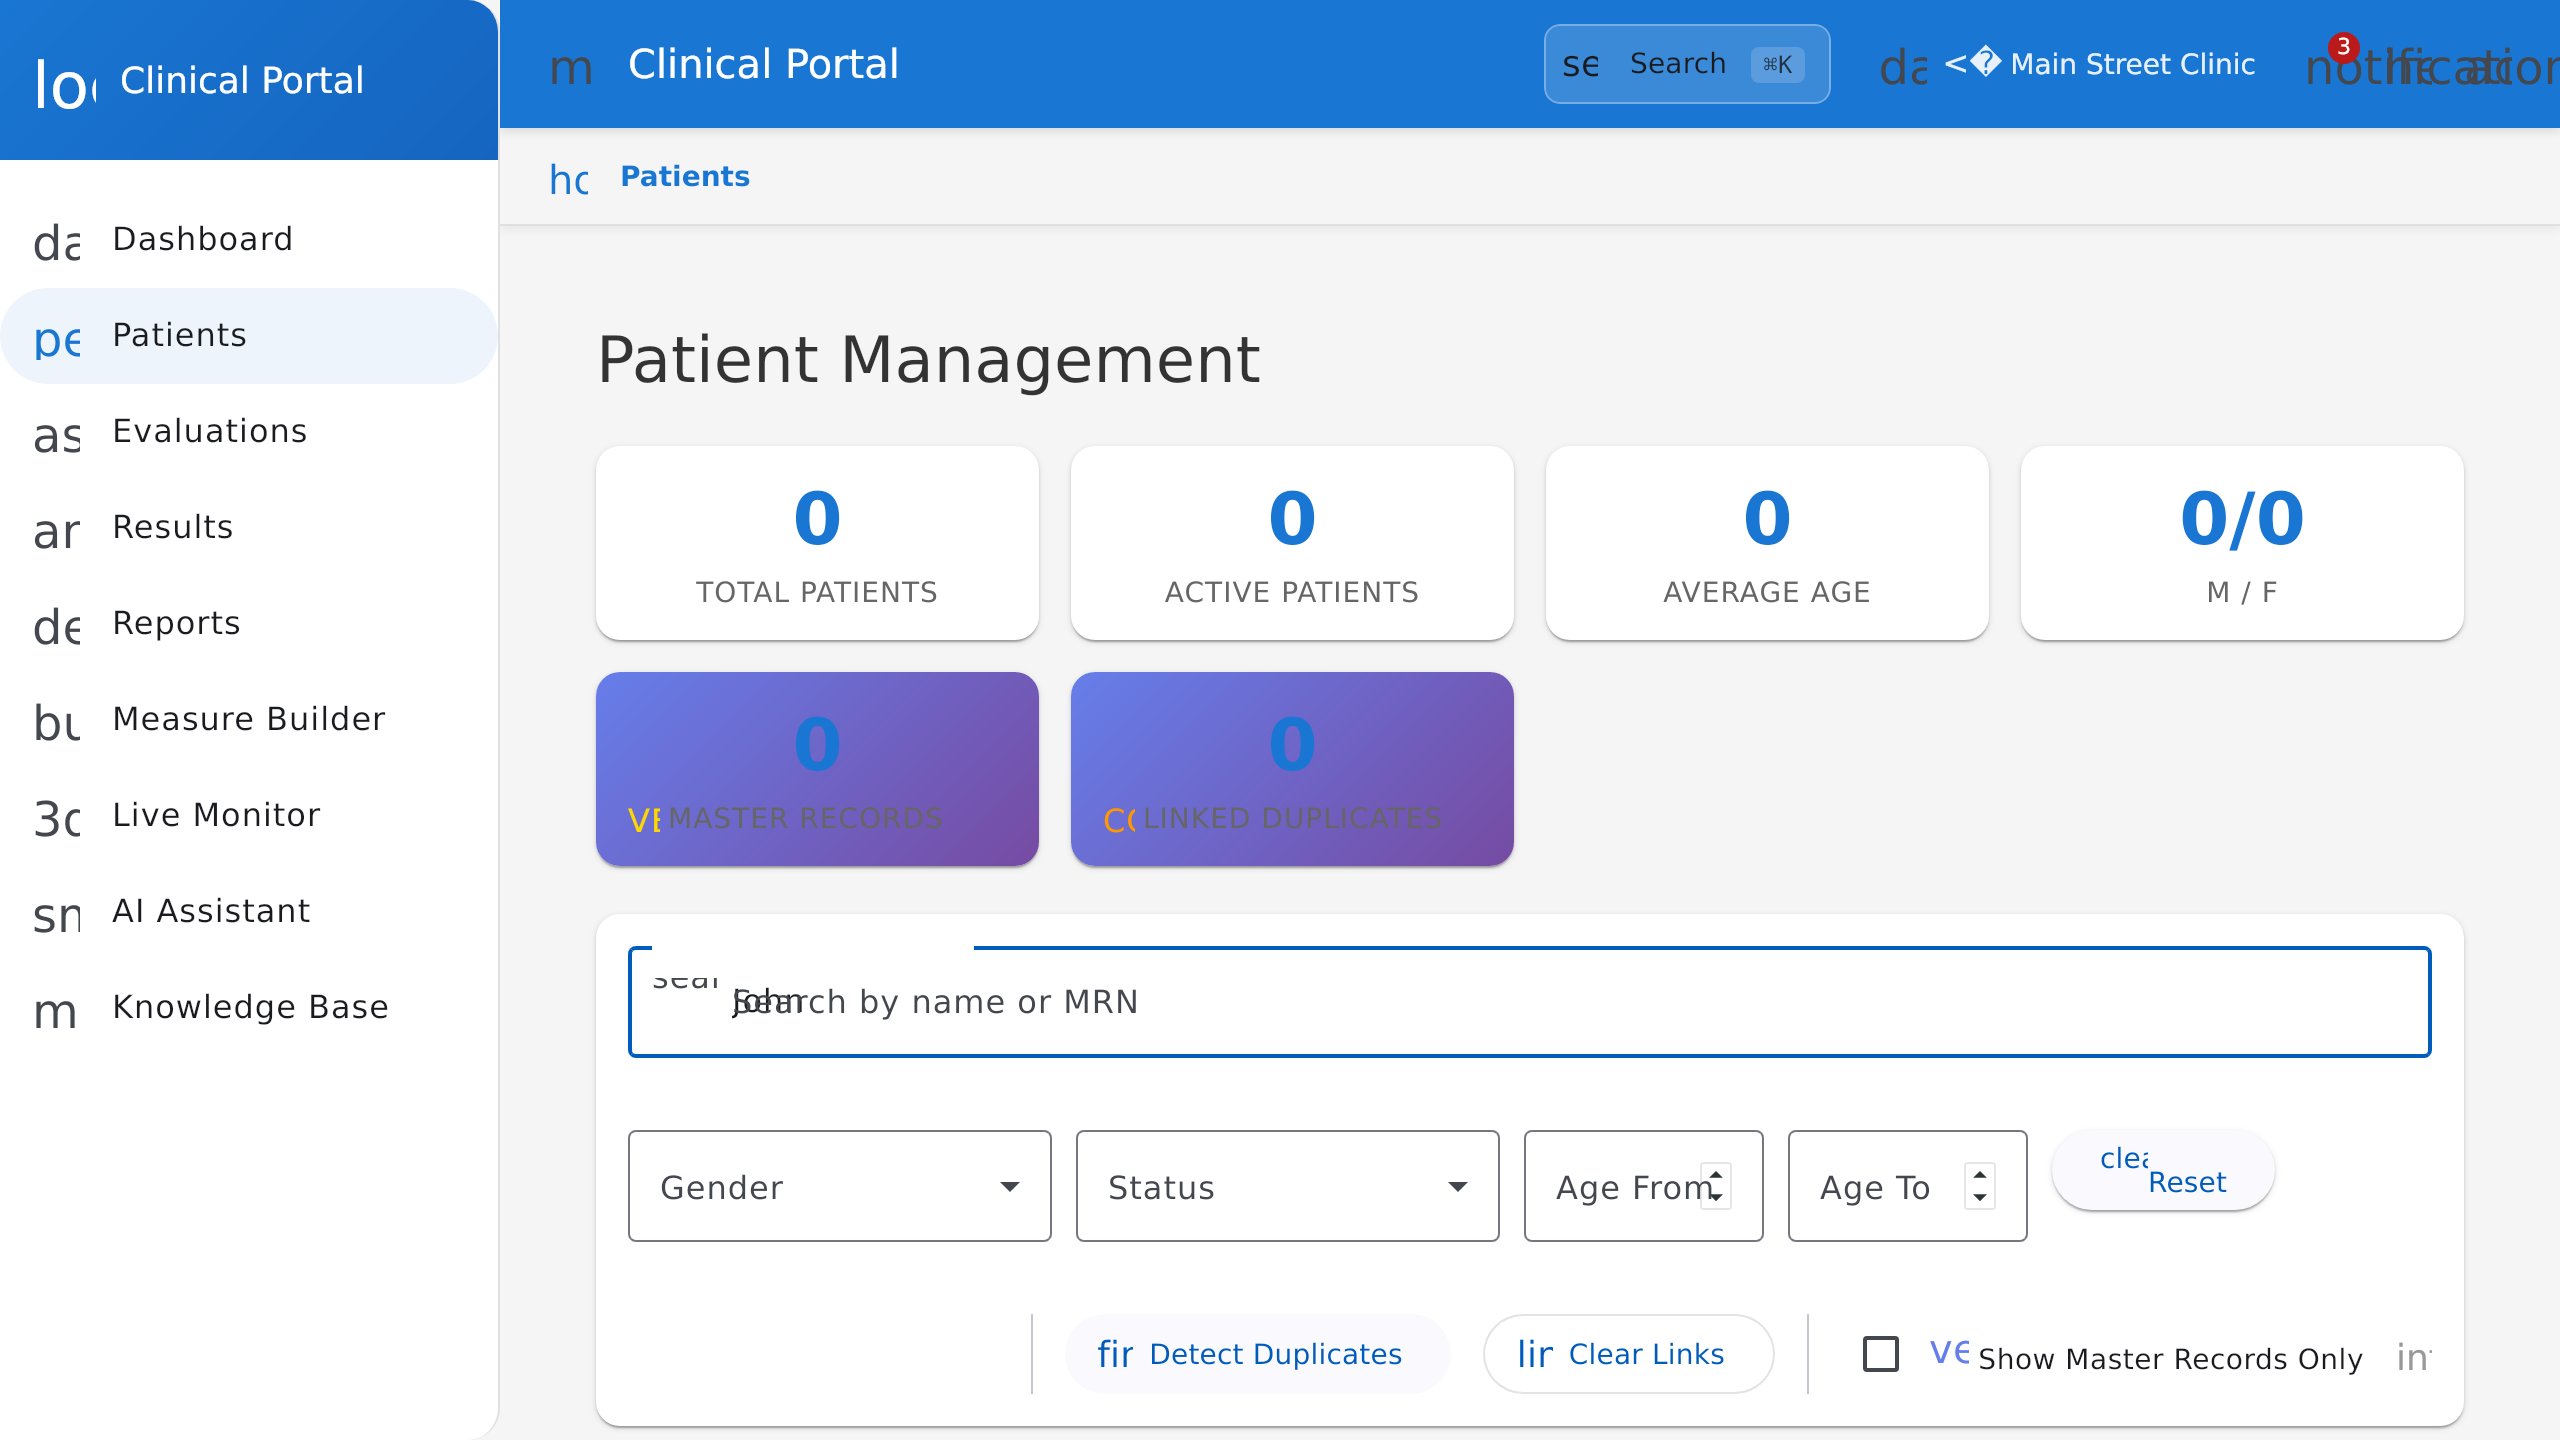
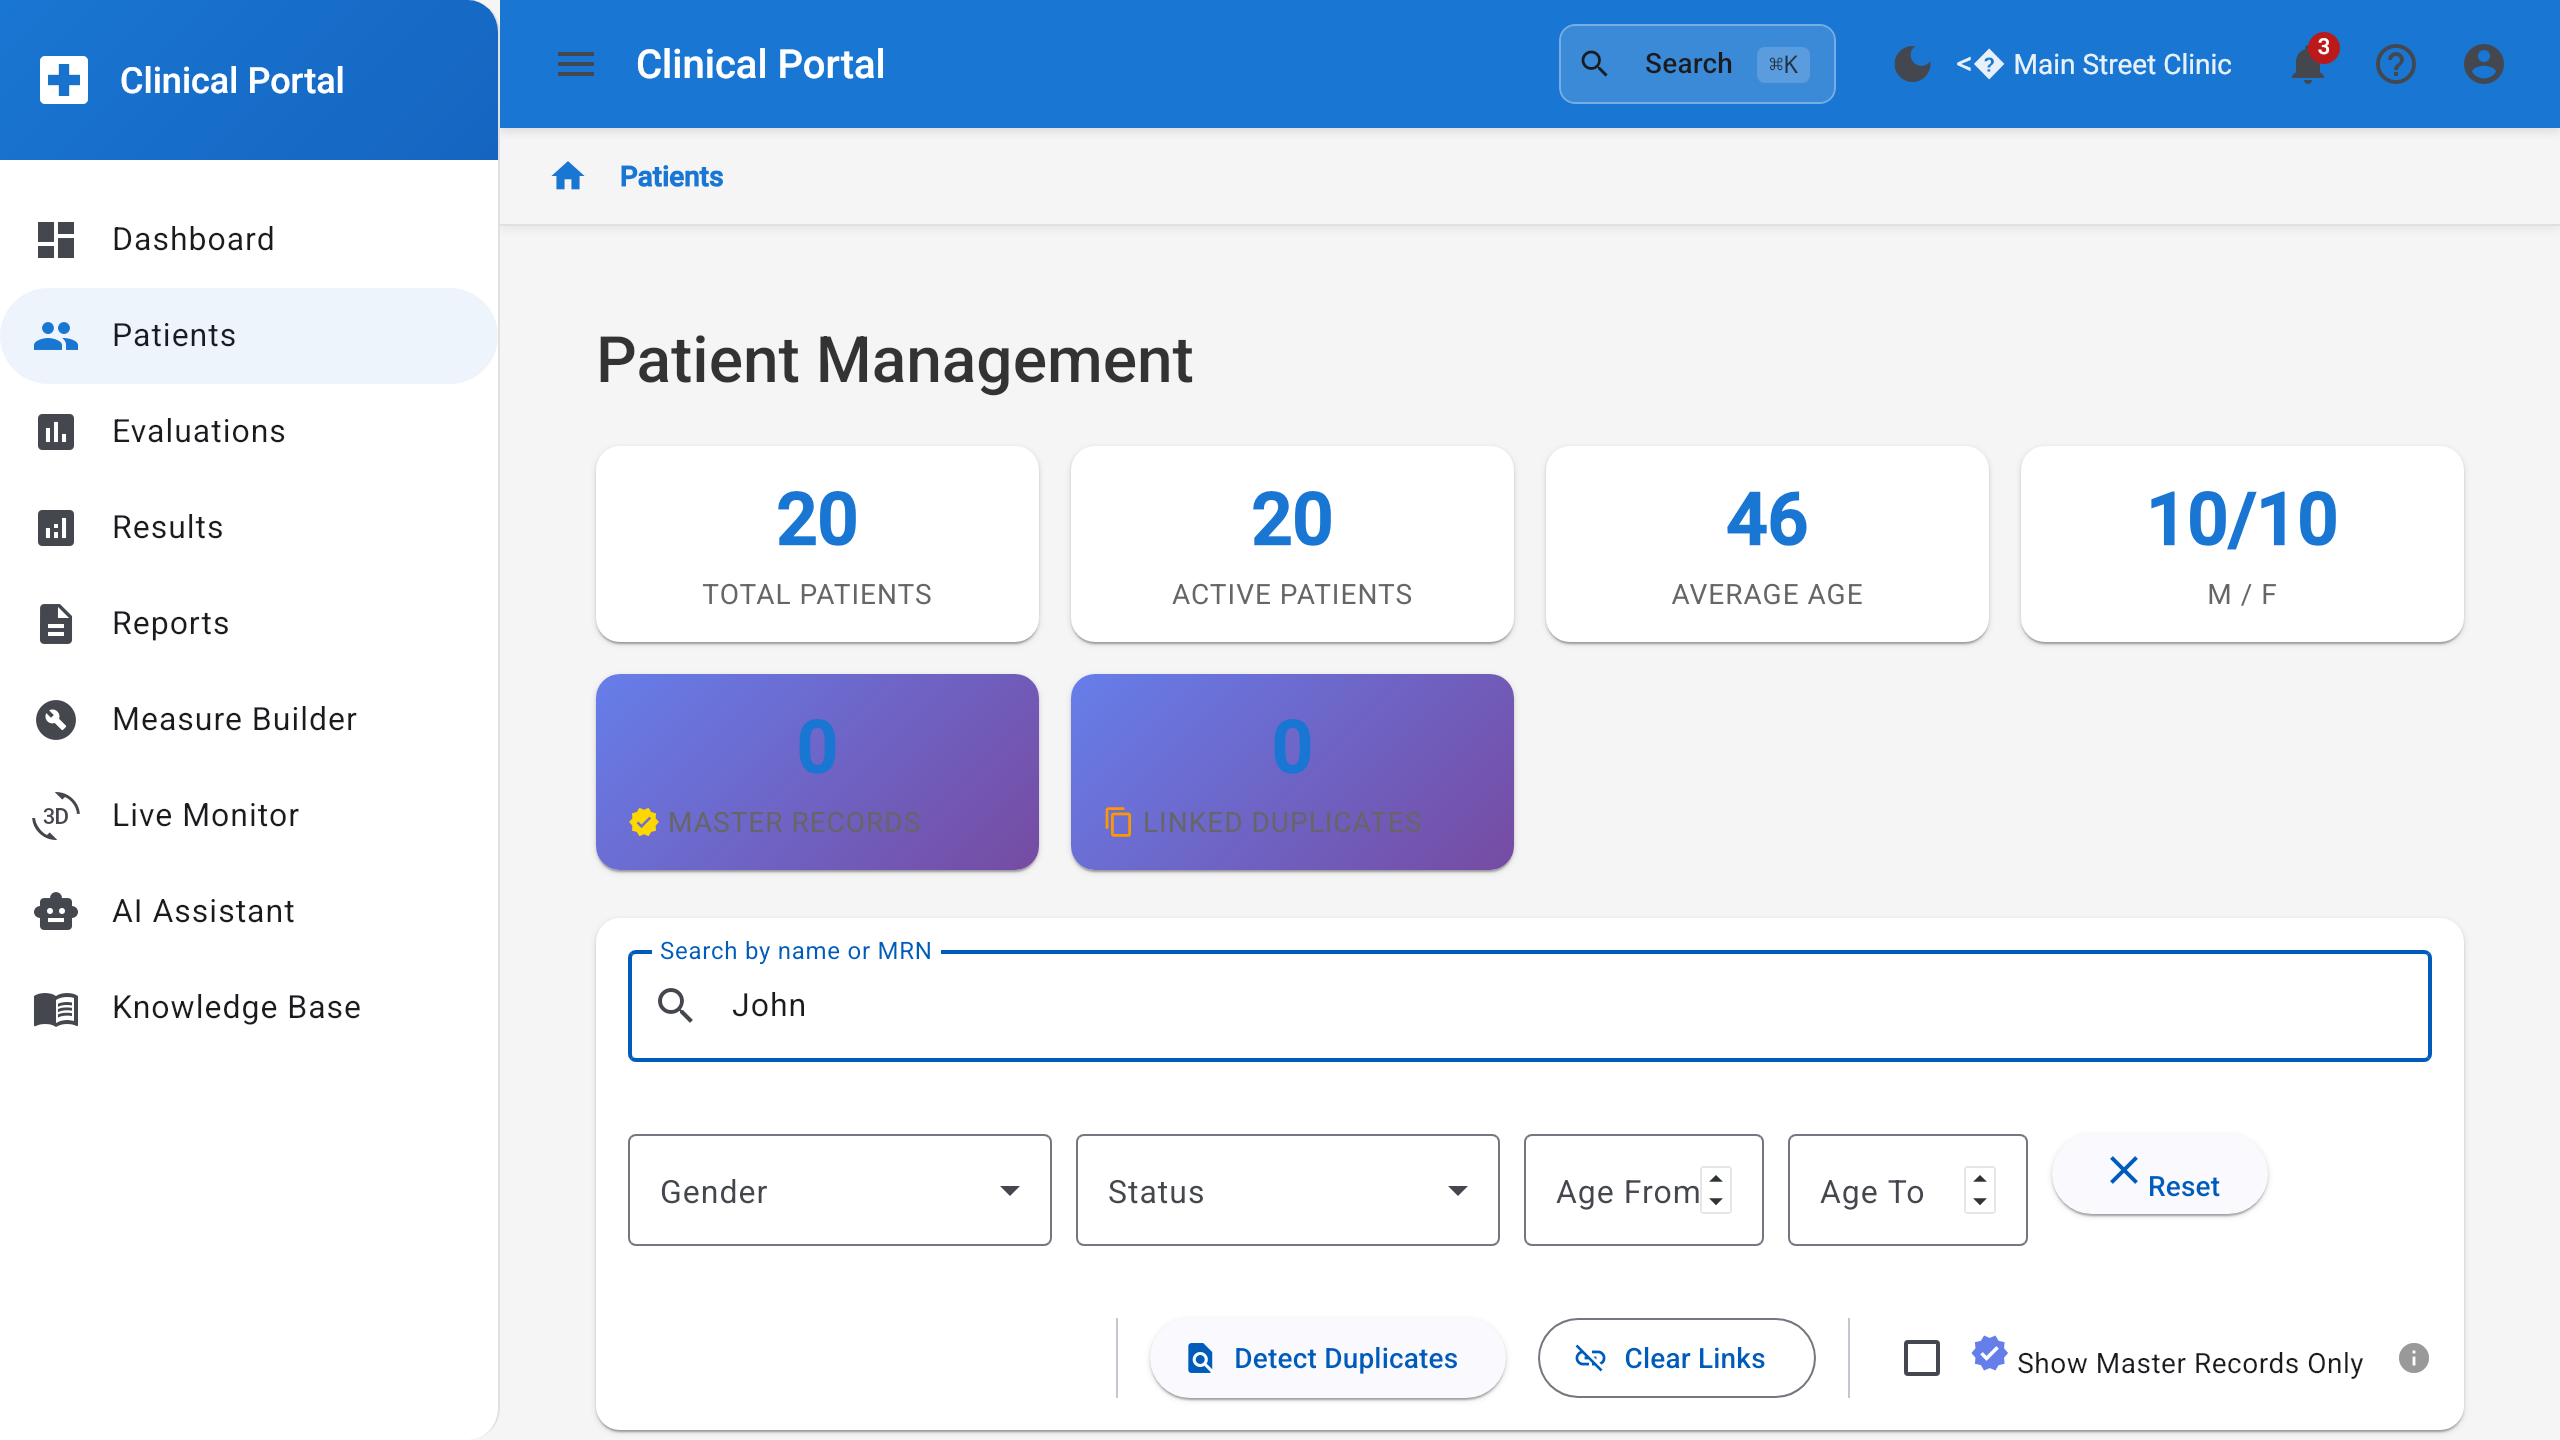
fix(clinical-portal): Fix proxy config and API endpoints for demo data display
- Change PostgreSQL from v16 to v15 to match existing data directory
- Add X-Tenant-ID headers to proxy config for multi-tenant support
- Fix quality-measure proxy path rewrite (double context path issue)
- Remove /api/v1 prefix from quality-measure endpoints to match backend
- Update UI documentation screenshots showing real demo data:
  - Patients page: 20 patients, 46 avg age, 10/10 M/F
  - Results page: 5 compliant, 50% compliance rate
  - Reports page: No errors, clean UI
  - Dashboard: Real metrics displayed

🤖 Generated with [Claude Code](https://claude.com/claude-code)

diff --git a/apps/clinical-portal/src/app/config/api.config.ts b/apps/clinical-portal/src/app/config/api.config.ts
@@ -12,7 +12,7 @@
 const USE_API_GATEWAY = false; // Direct mode with Angular proxy for CORS
 
 // API Gateway configuration (our Gateway service, not Kong)
-const API_GATEWAY_URL = 'http://localhost:9000'; // Gateway service URL
+const API_GATEWAY_URL = 'http://localhost:8080'; // Gateway service URL
 
 export const API_CONFIG = {
   // API Gateway Settings
@@ -32,7 +32,7 @@ export const API_CONFIG = {
 
   FHIR_SERVER_URL: USE_API_GATEWAY
     ? `${API_GATEWAY_URL}/api/fhir`
-    : '/fhir',  // Proxied to localhost:8083
+    : '/fhir',  // Proxied to localhost:8085
 
   // Tenant Configuration
   DEFAULT_TENANT_ID: 'demo-tenant',
@@ -78,20 +78,20 @@ export const CQL_ENGINE_ENDPOINTS = {
  * Note: Controller now uses /api/v1 (servlet context-path /quality-measure is already in base URL)
  */
 export const QUALITY_MEASURE_ENDPOINTS = {
-  CALCULATE: '/api/v1/calculate',
-  RESULTS_BY_PATIENT: '/api/v1/results',
-  QUALITY_SCORE: '/api/v1/score',
-  PATIENT_REPORT: '/api/v1/report/patient',
-  POPULATION_REPORT: '/api/v1/report/population',
+  CALCULATE: '/calculate',
+  RESULTS_BY_PATIENT: '/results',
+  QUALITY_SCORE: '/score',
+  PATIENT_REPORT: '/report/patient',
+  POPULATION_REPORT: '/report/population',
   HEALTH: '/_health',
 
   // Saved Reports Endpoints
-  SAVE_PATIENT_REPORT: '/api/v1/report/patient/save',
-  SAVE_POPULATION_REPORT: '/api/v1/report/population/save',
-  SAVED_REPORTS: '/api/v1/reports',
-  SAVED_REPORT_BY_ID: (reportId: string) => `/api/v1/reports/${reportId}`,
-  EXPORT_CSV: (reportId: string) => `/api/v1/reports/${reportId}/export/csv`,
-  EXPORT_EXCEL: (reportId: string) => `/api/v1/reports/${reportId}/export/excel`,
+  SAVE_PATIENT_REPORT: '/report/patient/save',
+  SAVE_POPULATION_REPORT: '/report/population/save',
+  SAVED_REPORTS: '/reports',
+  SAVED_REPORT_BY_ID: (reportId: string) => `/reports/${reportId}`,
+  EXPORT_CSV: (reportId: string) => `/reports/${reportId}/export/csv`,
+  EXPORT_EXCEL: (reportId: string) => `/reports/${reportId}/export/excel`,
 
   // Patient Health Overview Endpoints
   PATIENT_HEALTH_OVERVIEW: (patientId: string) => `/patient-health/overview/${patientId}`,
@@ -128,10 +128,10 @@ export const QUALITY_MEASURE_ENDPOINTS = {
   SDOH_REFERRAL_METRICS: (patientId: string) => `/patient-health/sdoh/referrals/patient/${patientId}/metrics`,
 
   // Batch Population Calculation Endpoints
-  POPULATION_CALCULATE: '/api/v1/population/calculate',
-  POPULATION_JOBS: '/api/v1/population/jobs',
-  POPULATION_JOB_BY_ID: (jobId: string) => `/api/v1/population/jobs/${jobId}`,
-  POPULATION_JOB_CANCEL: (jobId: string) => `/api/v1/population/jobs/${jobId}/cancel`,
+  POPULATION_CALCULATE: '/population/calculate',
+  POPULATION_JOBS: '/population/jobs',
+  POPULATION_JOB_BY_ID: (jobId: string) => `/population/jobs/${jobId}`,
+  POPULATION_JOB_CANCEL: (jobId: string) => `/population/jobs/${jobId}/cancel`,
 
   // Clinical Decision Support (CDS) Endpoints
   CDS_RULES: '/cds/rules',
